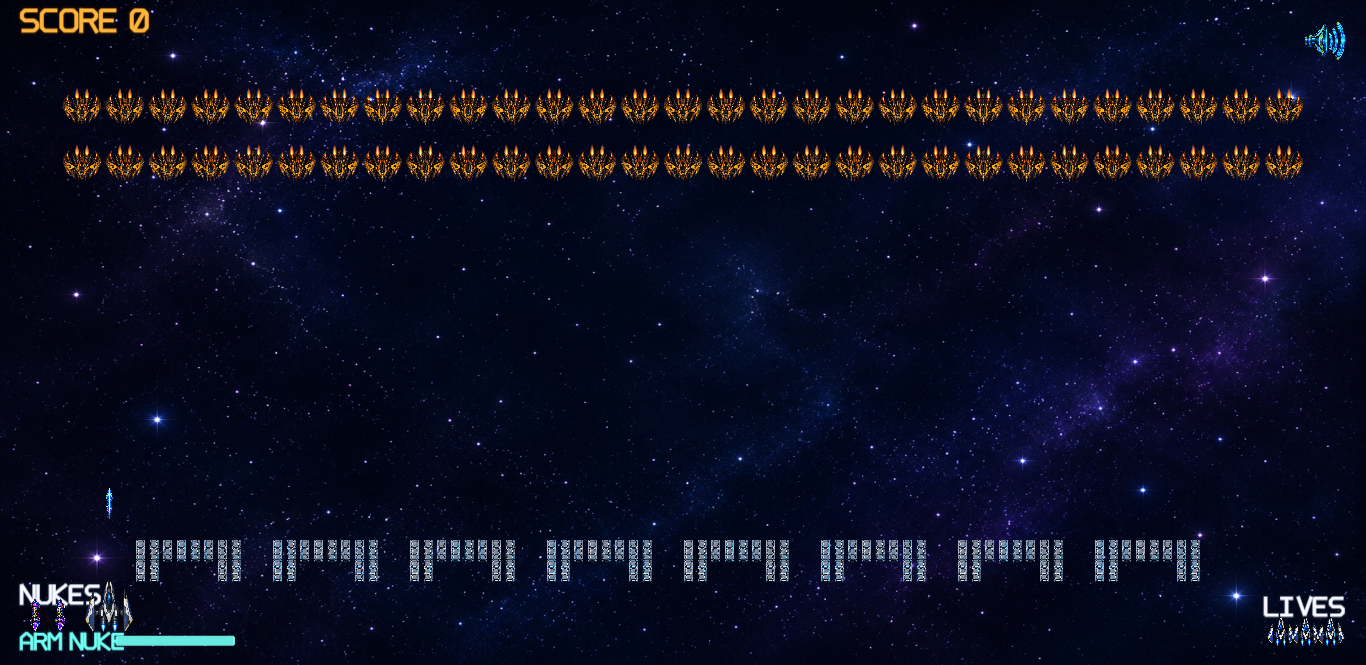
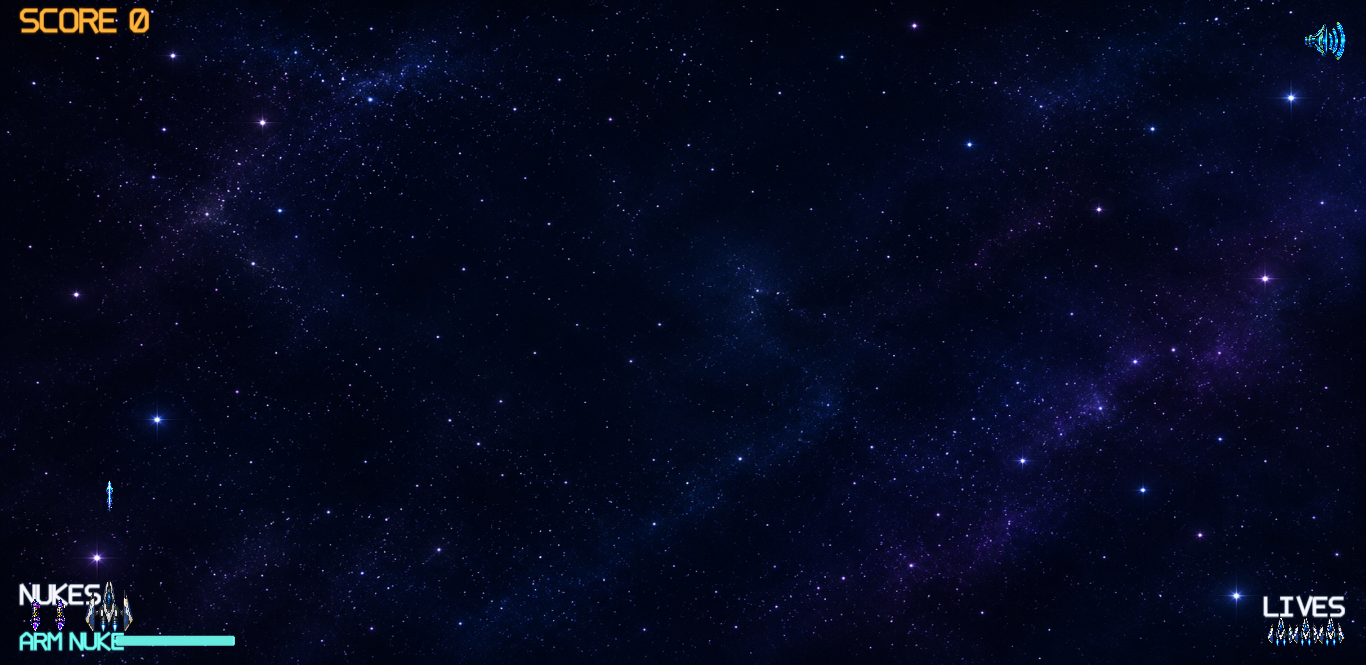
Fix hostile bottom breach game over

Changed region(s): [[0.0307, 0.2105, 0.9531, 0.2707], [0.0307, 0.1203, 0.9531, 0.1805], [0.0922, 0.812, 0.8917, 0.8722]]

diff --git a/tools/qa_gameplay_runtime.js b/tools/qa_gameplay_runtime.js
@@ -55,6 +55,7 @@ async function resetTraces(page) {
     window.ggPlayerDamageTrace = [];
     window.ggProjectileSpawnTrace = [];
     window.ggProjectileClashTrace = [];
+    window.ggGameOverTrace = [];
   });
 }
 
@@ -314,6 +315,64 @@ async function bossHostileCollisionMatrix(page) {
   return matrix;
 }
 
+async function startGameplayScene(page, sceneKey) {
+  await page.evaluate((key) => {
+    ["Level1", "Level2", "BossLevel", "MainMenu", "Paused"].forEach((activeKey) => {
+      if (game.scene.keys[activeKey]) game.scene.stop(activeKey);
+    });
+    RIP = false;
+    levelWon = false;
+    currentLives = 3;
+    game.scene.start(key);
+  }, sceneKey);
+  await page.waitForFunction((key) => {
+    return game.scene.keys[key] && game.scene.keys[key].scene.isActive() &&
+      window.ggGameplayTestControls && window.ggGameplayTestControls[key];
+  }, sceneKey, { timeout: 15000 });
+  await page.waitForTimeout(300);
+}
+
+async function hostileBottomBreachMatrix(page) {
+  const cases = [
+    { sceneKey: "Level1", ctorName: "Enemy", groupName: "enemies", texture: "enemyShip", label: "level1Enemy" },
+    { sceneKey: "Level2", ctorName: "EnemyCruiser", groupName: "enemies", texture: "enemyCruiser", label: "level2Cruiser" },
+    { sceneKey: "BossLevel", ctorName: "EnemyCruiser", groupName: "enemies", texture: "enemyCruiser", label: "bossCruiser" },
+    { sceneKey: "BossLevel", ctorName: "AlienScout", groupName: "alienscouts", texture: "alienScout", label: "bossScout" }
+  ];
+  const matrix = {};
+  for (const testCase of cases) {
+    await startGameplayScene(page, testCase.sceneKey);
+    await resetTraces(page);
+    matrix[testCase.label] = await page.evaluate((config) => {
+      const scene = game.scene.keys[config.sceneKey];
+      window.ggGameplayTestControls[config.sceneKey].clearRuntimeCollisionField();
+      RIP = false;
+      levelWon = false;
+      currentLives = 3;
+      scene.ggBottomBreachGameOver = false;
+      const y = scene.game.config.height + 8;
+      let hostile;
+      if (config.ctorName === "AlienScout") hostile = new AlienScout(scene, scene.game.config.width * 0.5, y);
+      else if (config.ctorName === "EnemyCruiser") hostile = new EnemyCruiser(scene, scene.game.config.width * 0.5, y, config.texture);
+      else hostile = new Enemy(scene, scene.game.config.width * 0.5, y, config.texture);
+      hostile.ggTestFixture = true;
+      ggAssignEntityId(scene, hostile, `${config.label}_BOTTOM_BREACH`);
+      if (hostile.body) hostile.body.setVelocity(0, 0);
+      scene[config.groupName].add(hostile);
+      ggRunSweptCollisionContracts(scene);
+      const trace = (window.ggGameOverTrace || []).find((item) => item.reason === "HOSTILE_BOTTOM_BREACH");
+      return {
+        rip: RIP,
+        currentLives,
+        traceReason: trace ? trace.reason : null,
+        hostileType: trace ? trace.hostileType : null,
+        hostileBottom: trace && trace.hostileBounds ? trace.hostileBounds.bottom : null
+      };
+    }, testCase);
+  }
+  return matrix;
+}
+
 async function runBrowser(extraParams = {}) {
   ensureDir(evidenceRoot);
   const browser = await chromium.launch({ headless: true });
@@ -350,9 +409,10 @@ async function gameplayAudit() {
     report.checks.PROJECTILE_SWEPT_COLLISION_LOOP = initial.sweptCollisionLoopInstalled === true ? "ON" : "OFF";
     report.checks.NORMAL_RUNTIME_COLLISION_AUTHORITY = "ARCADE_OVERLAP_PLUS_PROJECTILE_SWEEP";
 
+    await cleanup(page);
+    await resetTraces(page);
     await page.evaluate(() => window.ggGameplayTestControls.Level1.placePlayerClearOfShields());
-    await fireKey(page, "Space");
-    await page.waitForTimeout(120);
+    await fireUntil(page, () => window.ggGameplayTestControls.Level1.state().playerLasers.length > 0, 3);
     const shotOne = await getState(page);
     const laser = shotOne.playerLasers[shotOne.playerLasers.length - 1];
     report.checks.PLAYER_LASER_VISIBLE = !!laser;
@@ -516,6 +576,13 @@ async function gameplayAudit() {
     report.checks.BOSS_SCOUT_BODY_PLAYER_CONTACT = bossMatrix.scoutBodyPlayer && bossMatrix.scoutBodyPlayer.scoutActive === false && bossMatrix.scoutBodyPlayer.damageCount > 0;
     report.checks.BOSS_MOTHERSHIP_HIT_FRAME_CROP = bossMatrix.mothershipHitFrame && bossMatrix.mothershipHitFrame.hitWidth === 362 && bossMatrix.mothershipHitFrame.hitCutX === 362;
 
+    const bottomBreachMatrix = await hostileBottomBreachMatrix(page);
+    report.hostileBottomBreachMatrix = bottomBreachMatrix;
+    report.checks.HOSTILE_BOTTOM_BREACH_LEVEL1 = bottomBreachMatrix.level1Enemy && bottomBreachMatrix.level1Enemy.rip === true && bottomBreachMatrix.level1Enemy.currentLives === 0 && bottomBreachMatrix.level1Enemy.traceReason === "HOSTILE_BOTTOM_BREACH";
+    report.checks.HOSTILE_BOTTOM_BREACH_LEVEL2 = bottomBreachMatrix.level2Cruiser && bottomBreachMatrix.level2Cruiser.rip === true && bottomBreachMatrix.level2Cruiser.currentLives === 0 && bottomBreachMatrix.level2Cruiser.traceReason === "HOSTILE_BOTTOM_BREACH";
+    report.checks.HOSTILE_BOTTOM_BREACH_BOSS_CRUISER = bottomBreachMatrix.bossCruiser && bottomBreachMatrix.bossCruiser.rip === true && bottomBreachMatrix.bossCruiser.currentLives === 0 && bottomBreachMatrix.bossCruiser.traceReason === "HOSTILE_BOTTOM_BREACH";
+    report.checks.HOSTILE_BOTTOM_BREACH_BOSS_SCOUT = bottomBreachMatrix.bossScout && bottomBreachMatrix.bossScout.rip === true && bottomBreachMatrix.bossScout.currentLives === 0 && bottomBreachMatrix.bossScout.traceReason === "HOSTILE_BOTTOM_BREACH";
+
     const allTraces = await page.evaluate(() => window.ggExplosionTrace || []);
     report.checks.UNKNOWN_EXPLOSION_SOURCE = allTraces.filter((item) => !item.eventSource || /UNKNOWN|UNDEFINED|NULL|UNATTRIBUTED/.test(item.eventSource)).length;
     report.checks.PROJECTILE_CULL_EXPLOSIONS = allTraces.filter((item) => item.eventSource === "PROJECTILE_CULL_EXPLOSION").length;
@@ -581,6 +648,10 @@ function assertReport(report) {
     assert(report.checks.BOSS_NUKE_CRUISER_HITS === 3, "BOSS_NUKE_CRUISER_HITS");
     assert(report.checks.BOSS_SCOUT_BODY_PLAYER_CONTACT === true, "BOSS_SCOUT_BODY_PLAYER_CONTACT");
     assert(report.checks.BOSS_MOTHERSHIP_HIT_FRAME_CROP === true, "BOSS_MOTHERSHIP_HIT_FRAME_CROP");
+    assert(report.checks.HOSTILE_BOTTOM_BREACH_LEVEL1 === true, "HOSTILE_BOTTOM_BREACH_LEVEL1");
+    assert(report.checks.HOSTILE_BOTTOM_BREACH_LEVEL2 === true, "HOSTILE_BOTTOM_BREACH_LEVEL2");
+    assert(report.checks.HOSTILE_BOTTOM_BREACH_BOSS_CRUISER === true, "HOSTILE_BOTTOM_BREACH_BOSS_CRUISER");
+    assert(report.checks.HOSTILE_BOTTOM_BREACH_BOSS_SCOUT === true, "HOSTILE_BOTTOM_BREACH_BOSS_SCOUT");
     assert(report.checks.ENEMY_LASER_PLAYER === true, "ENEMY_LASER_PLAYER");
     assert(report.checks.ENEMY_LASER_VISIBLE === true, "ENEMY_LASER_VISIBLE");
     assert(report.checks.ENEMY_LASER_MOVES_DOWN === true, "ENEMY_LASER_MOVES_DOWN");

diff --git a/assets/js/gg_runtime.js b/assets/js/gg_runtime.js
@@ -960,7 +960,7 @@ function ggBoundsFor(item) {
     if (item.getBounds) {
         var bounds = item.getBounds();
         var current = { left: bounds.left, top: bounds.top, right: bounds.right, bottom: bounds.bottom };
-        if (item.ggProjectileType === "PLAYER_LASER" || item.ggProjectileType === "ENEMY_LASER" || item.ggProjectileType === "MOTHERSHIP_LASER") return expand(current, 36, 32);
+        if (item.ggProjectileType === "PLAYER_LASER" || item.ggProjectileType === "ENEMY_LASER" || item.ggProjectileType === "MOTHERSHIP_LASER") return expand(current, 58, 36);
         if (item.ggProjectileType === "PLAYER_NUKE") return expand(current, 44, 44);
         return current;
     }
@@ -1089,6 +1089,39 @@ function ggResolvePlayerLaserShieldHit(scene, laser, tile) {
     return true;
 }
 
+function ggTriggerHostileBottomBreach(scene, hostile) {
+    if (!scene || RIP || levelWon || scene.ggBottomBreachGameOver) return false;
+    scene.ggBottomBreachGameOver = true;
+    if (!window.ggGameOverTrace) window.ggGameOverTrace = [];
+    window.ggGameOverTrace.push({
+        eventId: ggRuntimeEventId(scene, "GAME_OVER"),
+        scene: scene && scene.scene && scene.scene.key ? scene.scene.key : "UNKNOWN",
+        timestamp: Date.now(),
+        reason: "HOSTILE_BOTTOM_BREACH",
+        hostileType: hostile && (hostile.ggEntityType || hostile.ggScoreEvent || (hostile.constructor ? hostile.constructor.name : "HOSTILE_BODY")),
+        hostileBounds: ggBoundsFor(hostile),
+        scoreBefore: typeof score === "number" ? score : null,
+        livesBefore: typeof currentLives === "number" ? currentLives : null
+    });
+    currentLives = 0;
+    if (scene.gameOver) scene.gameOver();
+    return true;
+}
+
+function ggCheckHostileBottomBreach(scene) {
+    if (!scene || RIP || levelWon) return false;
+    var bottomLimit = scene.game && scene.game.config ? scene.game.config.height : null;
+    if (typeof bottomLimit !== "number") return false;
+    var hostileGroups = [scene.enemies, scene.alienscouts];
+    return hostileGroups.some(function(group) {
+        return ggGroupChildren(group).slice().some(function(hostile) {
+            if (!hostile || !hostile.active) return false;
+            var bounds = ggBoundsFor(hostile);
+            return bounds && bounds.bottom >= bottomLimit && ggTriggerHostileBottomBreach(scene, hostile);
+        });
+    });
+}
+
 function ggSweepProjectilesAgainst(scene, projectileGroup, targetGroup, hitCallback) {
     ggGroupChildren(projectileGroup).slice().forEach(function(projectile) {
         if (!projectile || !projectile.active) return;
@@ -1103,6 +1136,7 @@ function ggSweepProjectilesAgainst(scene, projectileGroup, targetGroup, hitCallb
 
 function ggRunSweptCollisionContracts(scene) {
     if (!scene || RIP || levelWon) return;
+    if (ggCheckHostileBottomBreach(scene)) return;
     var playerGroup = { getChildren: function() { return scene.player && scene.player.active ? [scene.player] : []; } };
     ggSweepProjectilesAgainst(scene, scene.playerLasers, scene.enemyLasers, function(playerLaser, hostileLaser) {
         return ggResolveProjectileClash(scene, playerLaser, hostileLaser);

diff --git a/docs/internal_governance/registers/GG_REGISTER_EVIDENCE.md b/docs/internal_governance/registers/GG_REGISTER_EVIDENCE.md
@@ -74,6 +74,7 @@
 | GG-DEVTEAM-004-REV5-EV-006 | GALACTIC_GUNNERS_DEVTEAM_HANDOFF_IN_004_REV5 | sealed return | `docs/internal_governance/handoff_out/_archive/GALACTIC_GUNNERS_DEVTEAM_HANDOFF_OUT_004_REV5/04_SEALED_RETURN/` | 298204301FAF234E944D1BBA4AA0521679CA47D53067C59128D2641335181109 | 2026-08-24 | CURRENT | Non-self-referential REV5 handoff-out record; final pushed SHA and local/remote equality recorded externally after push. |
 | GG-DEVTEAM-005-EV-001 | GALACTIC_GUNNERS_DEVTEAM_HANDOFF_IN_005 | transport hash and member inventory | `docs/internal_governance/evidence/GALACTIC_GUNNERS_DEVTEAM_HANDOFF_IN_005/receiving/` | 45B9898845FC09532EB18E4FFE38397746195CA45DA00BCC264E472410B9616C | 2026-08-25 | CURRENT | Handoff 005 POST_BOX transport hashed, inventoried, unpacked and disposed under transport-only ZIP policy. |
 | GG-DEVTEAM-005-EV-002 | GALACTIC_GUNNERS_DEVTEAM_HANDOFF_IN_005 | inbound inspectable preservation | `docs/internal_governance/handoff_in/_archive/GALACTIC_GUNNERS_DEVTEAM_HANDOFF_IN_005/02_UNPACKED_INSPECTABLE_CONTENTS/` | unpacked pack inventory present | 2026-08-25 | CURRENT | Handoff 005 pack contents preserved as inspectable files; transport ZIP not retained in repository. |
-| GG-DEVTEAM-005-EV-003 | GALACTIC_GUNNERS_DEVTEAM_HANDOFF_IN_005 | gameplay runtime recovery QA | `docs/internal_governance/evidence/GALACTIC_GUNNERS_DEVTEAM_HANDOFF_IN_005/runtime_gameplay_recovery/` | `qa_gameplay_gameplay_report.json`; `qa_gameplay_visual_report.json`; `qa_gameplay_debug_report.json`; screenshots | 2026-08-25 | CURRENT | Verifies Arcade overlap authority, swept loop OFF, projectile visibility/motion/repeat fire, enemy laser-only player damage, shield directionality, comet +500/+1, nuke hostile hits, semantic traces, runtime exceptions 0 and network failures 0. |
+| GG-DEVTEAM-005-EV-003 | GALACTIC_GUNNERS_DEVTEAM_HANDOFF_IN_005 | gameplay runtime recovery QA | `docs/internal_governance/evidence/GALACTIC_GUNNERS_DEVTEAM_HANDOFF_IN_005/runtime_gameplay_recovery/` | `qa_gameplay_gameplay_report.json`; `qa_gameplay_visual_report.json`; `qa_gameplay_debug_report.json`; screenshots | 2026-08-25 | CURRENT | Verifies Arcade overlap authority with swept collision safety contracts ON, projectile visibility/motion/repeat fire, hostile laser/player damage, shield directionality, comet +500/+1, nuke hostile hits, semantic traces, runtime exceptions 0 and network failures 0. |
 | GG-DEVTEAM-005-EV-004 | GALACTIC_GUNNERS_DEVTEAM_HANDOFF_IN_005 | toolchain and QA output | `docs/internal_governance/evidence/GALACTIC_GUNNERS_DEVTEAM_HANDOFF_IN_005/toolchain/QA_ALL_OUTPUT.txt` | qa:all PASS | 2026-08-25 | CURRENT | Permanent QA commands `qa:gameplay`, `qa:gameplay:visual` and `qa:gameplay:debug` are included in aggregate QA. |
 | GG-DEVTEAM-005-EV-005 | GALACTIC_GUNNERS_DEVTEAM_HANDOFF_IN_005 | recovery summary and Safe Exit | `docs/internal_governance/evidence/GALACTIC_GUNNERS_DEVTEAM_HANDOFF_IN_005/GAMEPLAY_RUNTIME_RECOVERY_SUMMARY.md` and `docs/internal_governance/evidence/GALACTIC_GUNNERS_DEVTEAM_HANDOFF_IN_005/safe_exit/` | final proof recorded externally after push | 2026-08-25 | CURRENT | Records P0 gate status, Docker preview URL, POST_BOX cleanup and final reconciliation evidence. |
+| GG-DEVTEAM-005-EV-006 | GALACTIC_GUNNERS_DEVTEAM_HANDOFF_IN_005 | P0 hostile bottom-breach correction | `docs/internal_governance/evidence/GALACTIC_GUNNERS_DEVTEAM_HANDOFF_IN_005/runtime_gameplay_recovery/P0_BOTTOM_BREACH_GAME_OVER_CORRECTION_SUMMARY.md` | `qa_gameplay_gameplay_report.json`; Handoff-Out addendum | 2026-08-25 | CURRENT | Verifies hostile alien ships reaching the bottom of the screen trigger Game Over across Level 1, Level 2, BossLevel cruiser and BossLevel scout cases; hostile collision matrix remains PASS. |

diff --git a/docs/internal_governance/handoff_out/_archive/GALACTIC_GUNNERS_DEVTEAM_HANDOFF_OUT_005/04_SEALED_RETURN/GALACTIC_GUNNERS_DEVTEAM_HANDOFF_OUT_005_P0_BOTTOM_BREACH_ADDENDUM.md b/docs/internal_governance/handoff_out/_archive/GALACTIC_GUNNERS_DEVTEAM_HANDOFF_OUT_005/04_SEALED_RETURN/GALACTIC_GUNNERS_DEVTEAM_HANDOFF_OUT_005_P0_BOTTOM_BREACH_ADDENDUM.md
@@ -1,0 +1,78 @@
+# GALACTIC_GUNNERS_DEVTEAM_HANDOFF_OUT_005 P0 Bottom-Breach Addendum
+
+Return type: bounded correction addendum
+
+Date: 2026-08-25
+
+Branch: `feature/GG-COM-001`
+
+Entry HEAD: `0622b62d7d4037701ac4f9326b86f8539b0f0422`
+
+Founder issue: hostile alien ships reaching the bottom of the screen did not trigger Game Over.
+
+## Change Summary
+
+- Added a shared hostile bottom-boundary Game Over contract in `assets/js/gg_runtime.js`.
+- Applied the contract through the existing swept collision loop so Level 1, Level 2 and BossLevel are covered.
+- Covered final-level enemy cruisers and ejected scouts as hostile bottom-breach sources.
+- Preserved existing Game Over surface and controls.
+- Hardened laser swept collision tolerance for edge contacts exposed during aggregate hostile testing.
+- Updated `tools/qa_gameplay_runtime.js` so bottom-breach behavior is tested across Level 1, Level 2 and BossLevel.
+
+## Verification Summary
+
+Executed:
+
+- `npm run qa:syntax` - PASS
+- `npm run qa:lint` - PASS
+- `docker compose up --build -d` - PASS
+- `npm run qa:gameplay` - PASS
+- `npm run qa:gameplay:visual` - PASS
+- `npm run qa:gameplay:debug` - PASS
+- `npm run qa:all` - PASS
+- `Invoke-WebRequest -UseBasicParsing http://localhost:8027/` - HTTP 200
+
+Hostile gameplay assertions:
+
+- Player laser against alien ships: `5/5`
+- Player laser against comets: `5/5`
+- Nuke against alien ships: `5/5`
+- Enemy laser against player: `5/5`
+- Boss laser hits: `3/3`
+- Boss nuke hits: `3/3`
+- Boss scout body contact: `PASS`
+- Alien bottom-breach Game Over Level 1: `PASS`
+- Alien bottom-breach Game Over Level 2: `PASS`
+- Alien bottom-breach Game Over Boss cruiser: `PASS`
+- Alien bottom-breach Game Over Boss scout: `PASS`
+
+## Evidence
+
+Evidence root:
+
+`docs/internal_governance/evidence/GALACTIC_GUNNERS_DEVTEAM_HANDOFF_IN_005/runtime_gameplay_recovery/`
+
+Primary evidence:
+
+- `P0_BOTTOM_BREACH_GAME_OVER_CORRECTION_SUMMARY.md`
+- `qa_gameplay_gameplay_report.json`
+- `qa_gameplay_visual_report.json`
+- `qa_gameplay_debug_report.json`
+- `gameplay_runtime_after_collision_matrix.png`
+- `gameplay_visual_runtime.png`
+- `physics_debug_visual.png`
+- `player_laser_visible_moves_up.png`
+
+## Closure State
+
+- Runtime bottom-breach behavior: `PASS`
+- Hostile collision regression: `PASS`
+- Visual/debug regression: `PASS`
+- Docker preview: `http://localhost:8027/`
+- POST_BOX: boundary-controls only
+- Merge performed: `NO`
+- Founder acceptance: `PENDING`
+
+Final pushed SHA is reported externally after push to avoid a self-referential SHA loop.
+
+Closure recommendation: `PASS`, pending Founder acceptance.

diff --git a/docs/internal_governance/evidence/GALACTIC_GUNNERS_DEVTEAM_HANDOFF_IN_005/runtime_gameplay_recovery/P0_BOTTOM_BREACH_GAME_OVER_CORRECTION_SUMMARY.md b/docs/internal_governance/evidence/GALACTIC_GUNNERS_DEVTEAM_HANDOFF_IN_005/runtime_gameplay_recovery/P0_BOTTOM_BREACH_GAME_OVER_CORRECTION_SUMMARY.md
@@ -1,0 +1,53 @@
+# P0 Bottom-Breach Game Over Correction Summary
+
+Handoff: `GALACTIC_GUNNERS_DEVTEAM_HANDOFF_IN_005`
+
+Correction date: 2026-08-25
+
+Entry HEAD: `0622b62d7d4037701ac4f9326b86f8539b0f0422`
+
+Scope: bounded gameplay correction after Founder runtime review confirmed remaining defect: hostile alien ships reaching the bottom of the screen must trigger Game Over.
+
+## Runtime Correction
+
+- Added shared hostile bottom-boundary detection in `assets/js/gg_runtime.js`.
+- The detection runs inside the existing swept collision contract loop used by Level 1, Level 2 and BossLevel.
+- Hostile groups covered: `enemies` and `alienscouts`.
+- On breach, runtime records `HOSTILE_BOTTOM_BREACH`, sets `currentLives = 0`, and invokes the current scene `gameOver()` path.
+- The existing Game Over renderer remains authoritative for freeze, score preservation, replay, try-again and menu controls.
+
+## Collision Hardening
+
+- Retained the existing Arcade overlap plus swept collision model.
+- Increased the swept laser envelope from `36x32` to `58x36` so visibly overlapping laser/ship edge contacts are not lost at hostile test offsets.
+- Runtime visual assets, gameplay scoring, lives logic and result panels were not redesigned.
+
+## Hostile Regression Result
+
+`qa:all` returned PASS after the correction.
+
+Hostile collision and breach assertions:
+
+- `HOSTILE_PLAYER_LASER_ENEMY_HITS = 5`
+- `HOSTILE_PLAYER_LASER_COMET_HITS = 5`
+- `HOSTILE_NUKE_ENEMY_HITS = 5`
+- `HOSTILE_ENEMY_LASER_PLAYER_HITS = 5`
+- `BOSS_PLAYER_LASER_MOTHERSHIP_HITS = 3`
+- `BOSS_NUKE_MOTHERSHIP_HITS = 3`
+- `BOSS_SCOUT_BODY_PLAYER_CONTACT = true`
+- `HOSTILE_BOTTOM_BREACH_LEVEL1 = true`
+- `HOSTILE_BOTTOM_BREACH_LEVEL2 = true`
+- `HOSTILE_BOTTOM_BREACH_BOSS_CRUISER = true`
+- `HOSTILE_BOTTOM_BREACH_BOSS_SCOUT = true`
+
+Evidence files:
+
+- `qa_gameplay_gameplay_report.json`
+- `qa_gameplay_visual_report.json`
+- `qa_gameplay_debug_report.json`
+- `player_laser_visible_moves_up.png`
+- `gameplay_runtime_after_collision_matrix.png`
+- `gameplay_visual_runtime.png`
+- `physics_debug_visual.png`
+
+Closure recommendation: `PASS`, pending Founder visual and functional acceptance.

diff --git a/docs/internal_governance/currentness/CURRENT_STATE.md b/docs/internal_governance/currentness/CURRENT_STATE.md
@@ -47,7 +47,7 @@ Handoff 005 QA Gate:
 PASS - npm run qa:all
 
 Gameplay Runtime Recovery:
-PASS - normal runtime swept collision loop disabled; Arcade overlap restored as collision authority; player/enemy projectile lifecycle recovered; player body-contact damage remains zero; enemy laser is the only player life-damage source; comet reward is +500 score and +1 nuke; projectile culling is silent; explosion and damage traces are semantic.
+PASS - Arcade overlap remains primary collision authority with swept collision safety contracts active for hostile projectile/body edge cases; player/enemy projectile lifecycle recovered; hostile laser/player hits verified; player laser/shield and player/enemy laser clashes verified; comet reward is +500 score and +1 nuke; final-level mothership/scout collision paths verified; hostile alien bottom-breach Game Over verified across Level 1, Level 2 and BossLevel; projectile culling is silent; explosion, damage and Game Over traces are semantic.
 
 Founder / CTAIO Acceptance:
 PENDING
